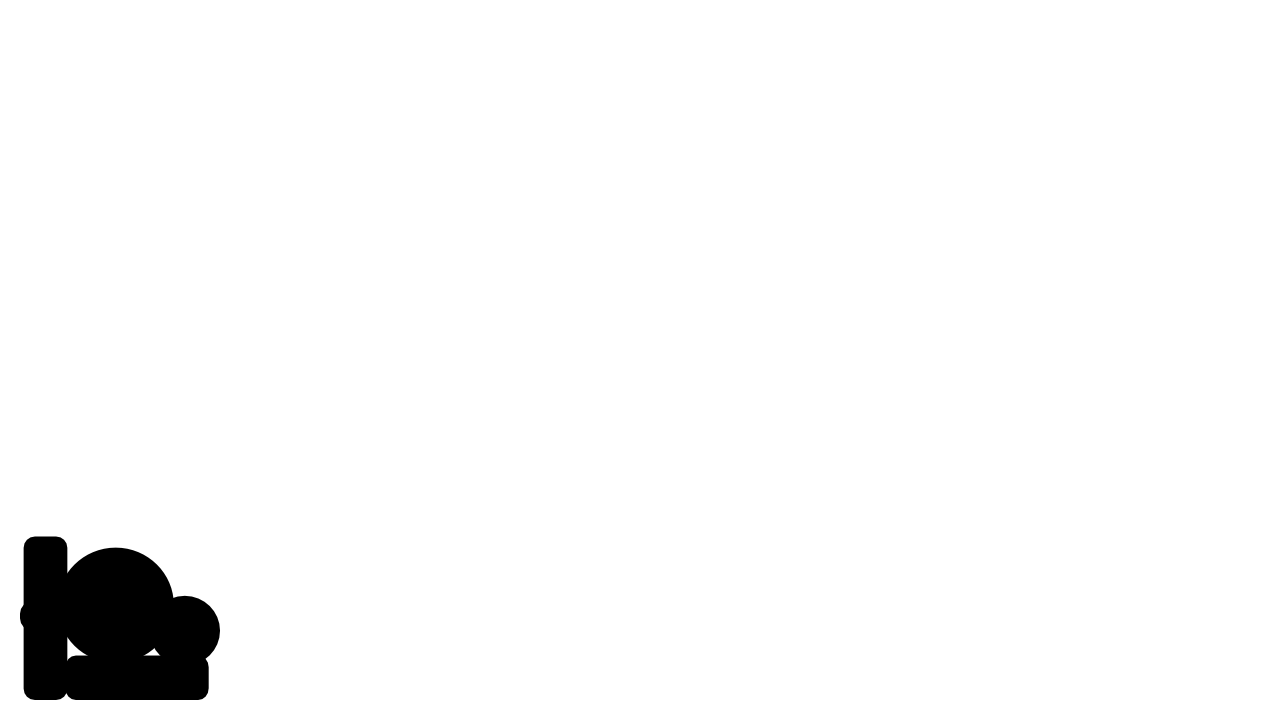
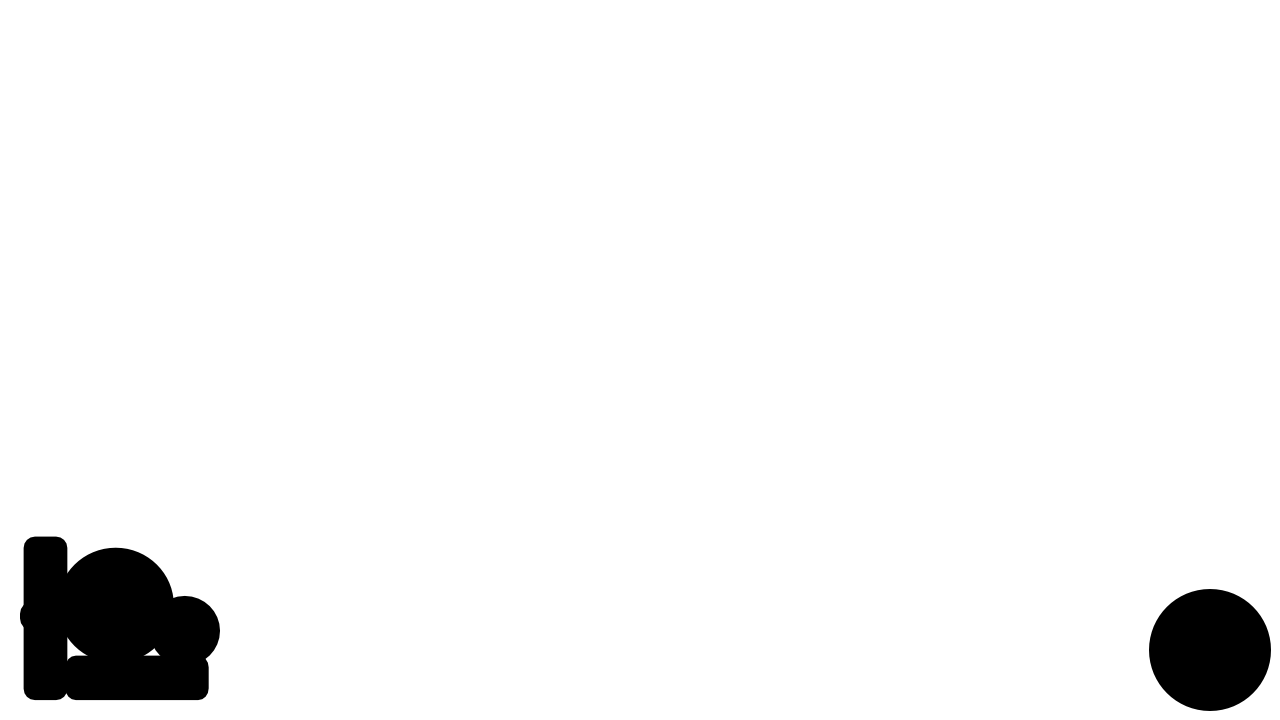
Implement Map in HUD

Changed region(s): [[0.875, 0.7944, 1.0, 1.0]]

diff --git a/js/index.js b/js/index.js
@@ -1306,6 +1306,8 @@
 
       //ctx.translate(videoWidth - paddingRight - 100, videoHeight - paddingBottom - 100);
 
+      // Draw Map
+      drawMap(position, heading, speed);
     }
     function drawAltitude(altitude){
       var interval = 0.1,
@@ -1387,6 +1389,127 @@
       ctx.font = "12px sans-serif";
       ctx.fillText(formatDate(time, "YYYY-mm-ddTHH:ii:ss"), 58, 147);
       ctx.restore();
+    }
+    function drawMap(position, heading, speed){
+      GPSTools.Map.setCentre(position.lon,position.lat,16);
+      var map = GPSTools.Map.getMap(),
+          layer = map.baseLayer,
+          latLon = map.getCenter(),
+          tileData = layer.getTileData(latLon),
+          tile = tileData.tile,
+          tileCtx = tile.getCanvasContext(),
+          tileCanvas,
+          i = tileData.i,
+          j = tileData.j,
+          r = 55,
+          cx = videoWidth - paddingRight - r,
+          cy = videoHeight - paddingBottom - r,
+          px = map.getViewPortPxFromLonLat(map.getCenter()),
+          midX = px.x,
+          midY = px.y,
+          radHeading = heading*Math.PI/180 - Math.PI/2,
+          moving = speed > 5,
+          backgroundSize = 122,
+          halfBGSize = backgroundSize / 2,
+          drawList = [],
+          oL = i < r,
+          oR = 256-i < r,
+          oT = j < r,
+          oB = 256-j < r,
+          k, l;
+
+      ctx.save();
+
+      ctx.drawImage(mapBackgroundImage, cx - halfBGSize, cy - halfBGSize);
+
+      // ctx.strokeStyle = "#FF0000";
+      // ctx.lineWidth = 2;
+      ctx.beginPath();
+      ctx.arc(cx, cy, r, 0, Math.PI*2, false);
+      ctx.clip();
+
+      ctx.translate(cx,cy);
+      if(moving){
+        ctx.rotate(-radHeading-Math.PI/2);
+      }
+
+      function drawTile(latLon, x, y){
+
+          var tileData = layer.getTileData(latLon),
+              tile = tileData.tile,
+              tileCtx = tile.getCanvasContext();
+
+          if(tileCtx){
+            ctx.drawImage(tileCtx.canvas, x, y);
+          }
+      }
+
+      if(tileCtx){
+        tileCanvas = tileCtx.canvas;
+        ctx.drawImage(tileCanvas,-i,-j);
+
+        // Left Col
+        if(oL){
+
+          drawList.push([-1,0]);
+
+          if(oT){
+            drawList.push([-1,-1]);
+          }
+          else if(oB){
+            drawList.push([-1,1]);
+          }
+        }
+        // Right Col
+        else if(oR){
+
+          drawList.push([1,0]);
+
+          if(oT){
+            drawList.push([1,-1]);
+          }
+          else if(oB){
+            drawList.push([1,1]);
+          }
+        }
+
+        // Middle Col (also catches L & R col overlaps)
+        if(oT){
+          drawList.push([0,-1]);
+        }
+        else if(oB){
+          drawList.push([0,1]);
+        }
+      }
+
+      for(k=0,l=drawList.length;k<l;k++){
+
+          px.x = midX + drawList[k][0] * (r + 1);
+          px.y = midY + drawList[k][1] * (r + 1);
+
+          latLon = map.getLonLatFromViewPortPx(px);
+
+          drawTile(latLon, drawList[k][0]*256-i, drawList[k][1]*256-j);
+
+      }
+
+      ctx.restore();
+
+      ctx.fillStyle = "#2020FF";
+      ctx.beginPath();
+      var a = 6;
+      if(moving){
+        ctx.moveTo(cx, cy-(2*a));
+        ctx.lineTo(cx+a, cy+(2*a));
+        ctx.lineTo(cx, cy+a);
+        ctx.lineTo(cx-a, cy+(2*a));
+        ctx.closePath();
+      }
+      else {
+        ctx.arc(cx, cy, a, 0, Math.PI*2, false);
+      }
+      ctx.fill();
+
     }
     function roundRect(ctx, x, y, width, height, radius, fill, stroke) {
       if (typeof stroke == "undefined" ) {
